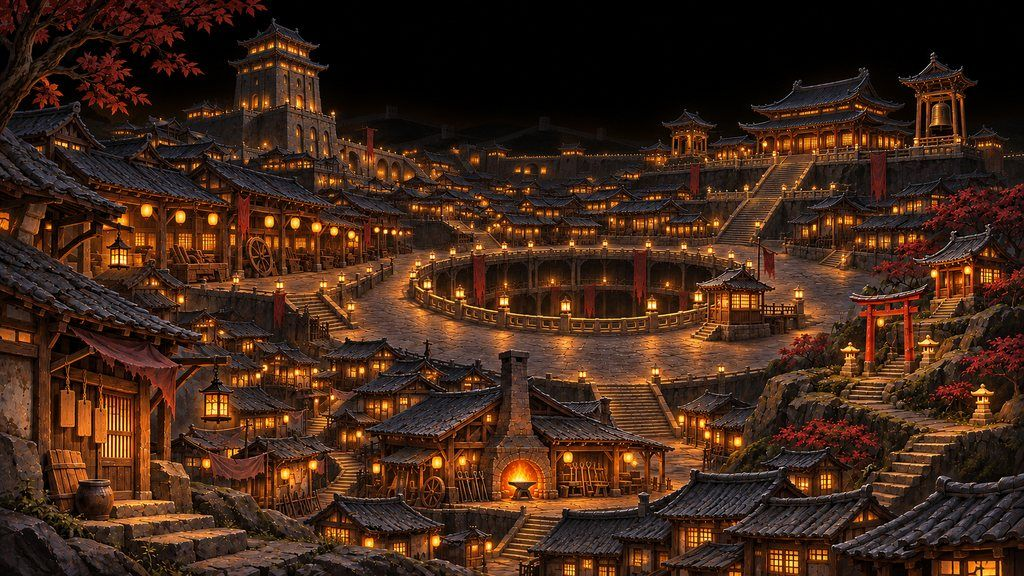
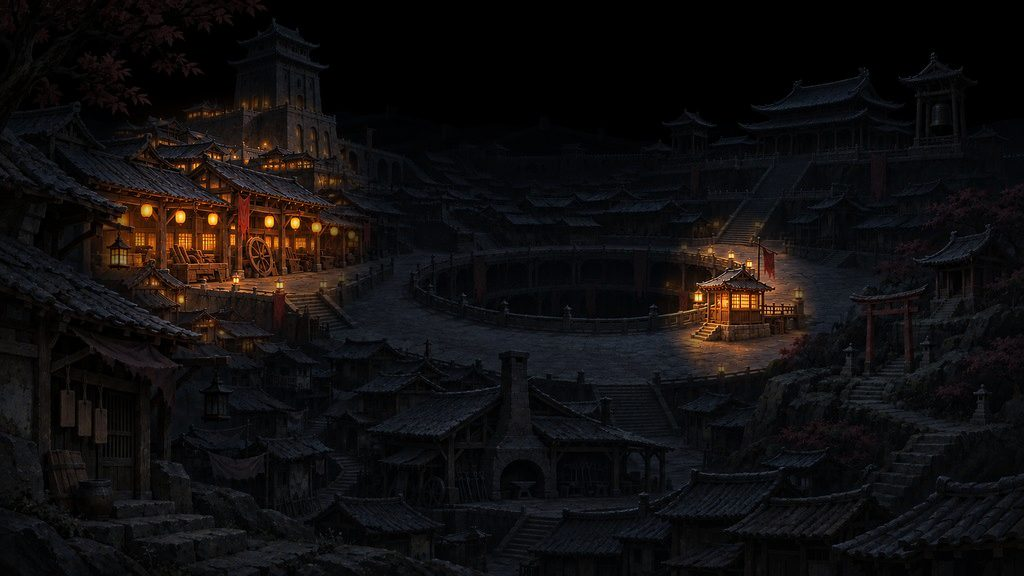
截圖照原比例不裁切；樣式檔加版本號防快取；燈城圖改成只亮兩區（井口哨所、工坊街）
Claude-Session: https://claude.ai/code/session_01WtYHKmhZMFWfvfrFiHiYUp

diff --git a/index.html b/index.html
@@ -14,8 +14,8 @@
 <meta name="theme-color" content="#0c0a09">
 <link rel="icon" href="img/favicon-32.png" sizes="32x32">
 <link rel="apple-touch-icon" href="img/apple-touch-icon.png">
-<link rel="stylesheet" href="style.css">
-<script src="lang.js"></script>
+<link rel="stylesheet" href="style.css?v=3">
+<script src="lang.js?v=3"></script>
 </head>
 <body>
 <header class="top"><div class="wrap">
@@ -48,7 +48,7 @@
 </section>
 <section>
 <h2><span data-l="zh-Hant">燈城</span><span data-l="en">Lamp City</span><span data-l="ja">灯城</span></h2>
-<p class="lead" data-l="zh-Hant">百年來第一次，燈城有了光。可是還有很多街巷是暗的。</p class="lead"><p class="lead" data-l="en">For the first time in a hundred years, Lamp City has light. But many of its streets are still dark.</p class="lead"><p class="lead" data-l="ja">百年ぶりに、灯城に光が戻った。けれど、まだ暗い通りがたくさんある。</p class="lead">
+<p class="lead" data-l="zh-Hant">百年來第一次，燈城有了光。可是大部分的街巷還是暗的，等著你帶回餘燼，一區一區點亮。</p class="lead"><p class="lead" data-l="en">For the first time in a hundred years, Lamp City has light. But most of its streets are still dark, waiting for the embers you bring home.</p class="lead"><p class="lead" data-l="ja">百年ぶりに、灯城に光が戻った。けれど通りの多くはまだ暗く、あなたが持ち帰る残り火を待っている。</p class="lead">
 <figure><img class="wide" src="img/city.jpg" alt="" loading="lazy" width="1024" height="576"></figure>
 </section>
 </main>

diff --git a/style.css b/style.css
@@ -41,10 +41,10 @@ h2{font-size:clamp(24px,4.5vw,32px);line-height:1.3;color:var(--ember);margin:0 
 .feats li{background:var(--panel);border:1px solid var(--ash);border-radius:8px;padding:14px 16px}
 .feats b{display:block;color:var(--ember);margin-bottom:2px}
 .shots{display:grid;grid-template-columns:repeat(4,minmax(0,1fr));gap:12px}
-.shots img{width:100%;height:auto;aspect-ratio:9/16;object-fit:cover;object-position:50% 0;border-radius:10px;border:1px solid var(--ash);box-shadow:0 8px 30px rgba(0,0,0,.35)}
+.shots img{width:100%;height:auto;border-radius:10px;border:1px solid var(--ash);box-shadow:0 8px 30px rgba(0,0,0,.35)}
 /* 手機：一列左右滑，不要拉成很長一段 */
 @media (max-width:640px){.shots{display:flex;overflow-x:auto;scroll-snap-type:x mandatory;gap:10px;margin:0 -16px;padding:0 16px 8px;scrollbar-width:none}.shots::-webkit-scrollbar{display:none}
- .shots img{flex:0 0 58%;width:58%;scroll-snap-align:center}}
+ .shots img{flex:0 0 46%;width:46%;scroll-snap-align:center}}
 .swipe{display:none;color:var(--dim);font-size:14px;margin:6px 0 0;text-align:center}@media (max-width:640px){.swipe{display:block}}
 .wide{border-radius:10px;border:1px solid var(--ash);box-shadow:0 0 40px var(--glow)}
 figure{margin:0}figcaption{color:var(--dim);font-size:14px;margin-top:8px;text-align:center}

diff --git a/privacy/index.html b/privacy/index.html
@@ -14,8 +14,8 @@
 <meta name="theme-color" content="#0c0a09">
 <link rel="icon" href="../img/favicon-32.png" sizes="32x32">
 <link rel="apple-touch-icon" href="../img/apple-touch-icon.png">
-<link rel="stylesheet" href="../style.css">
-<script src="../lang.js"></script>
+<link rel="stylesheet" href="../style.css?v=3">
+<script src="../lang.js?v=3"></script>
 </head>
 <body>
 <header class="top"><div class="wrap">

diff --git a/support/index.html b/support/index.html
@@ -14,8 +14,8 @@
 <meta name="theme-color" content="#0c0a09">
 <link rel="icon" href="../img/favicon-32.png" sizes="32x32">
 <link rel="apple-touch-icon" href="../img/apple-touch-icon.png">
-<link rel="stylesheet" href="../style.css">
-<script src="../lang.js"></script>
+<link rel="stylesheet" href="../style.css?v=3">
+<script src="../lang.js?v=3"></script>
 </head>
 <body>
 <header class="top"><div class="wrap">

diff --git a/build.py b/build.py
@@ -30,8 +30,8 @@ def page(name, body, up):
 <meta name="theme-color" content="#0c0a09">
 <link rel="icon" href="{up}img/favicon-32.png" sizes="32x32">
 <link rel="apple-touch-icon" href="{up}img/apple-touch-icon.png">
-<link rel="stylesheet" href="{up}style.css">
-<script src="{up}lang.js"></script>
+<link rel="stylesheet" href="{up}style.css?v=3">
+<script src="{up}lang.js?v=3"></script>
 </head>
 <body>
 <header class="top"><div class="wrap">
@@ -74,7 +74,7 @@ INDEX = f'''<div class="hero"><img src="img/hero.jpg" alt="" width="1600" height
 </section>
 <section>
 <h2>{L("燈城", "Lamp City", "灯城")}</h2>
-{L("百年來第一次，燈城有了光。可是還有很多街巷是暗的。", "For the first time in a hundred years, Lamp City has light. But many of its streets are still dark.", "百年ぶりに、灯城に光が戻った。けれど、まだ暗い通りがたくさんある。", "p class=\"lead\"")}
+{L("百年來第一次，燈城有了光。可是大部分的街巷還是暗的，等著你帶回餘燼，一區一區點亮。", "For the first time in a hundred years, Lamp City has light. But most of its streets are still dark, waiting for the embers you bring home.", "百年ぶりに、灯城に光が戻った。けれど通りの多くはまだ暗く、あなたが持ち帰る残り火を待っている。", "p class=\"lead\"")}
 <figure><img class="wide" src="img/city.jpg" alt="" loading="lazy" width="1024" height="576"></figure>
 </section>
 </main>'''
